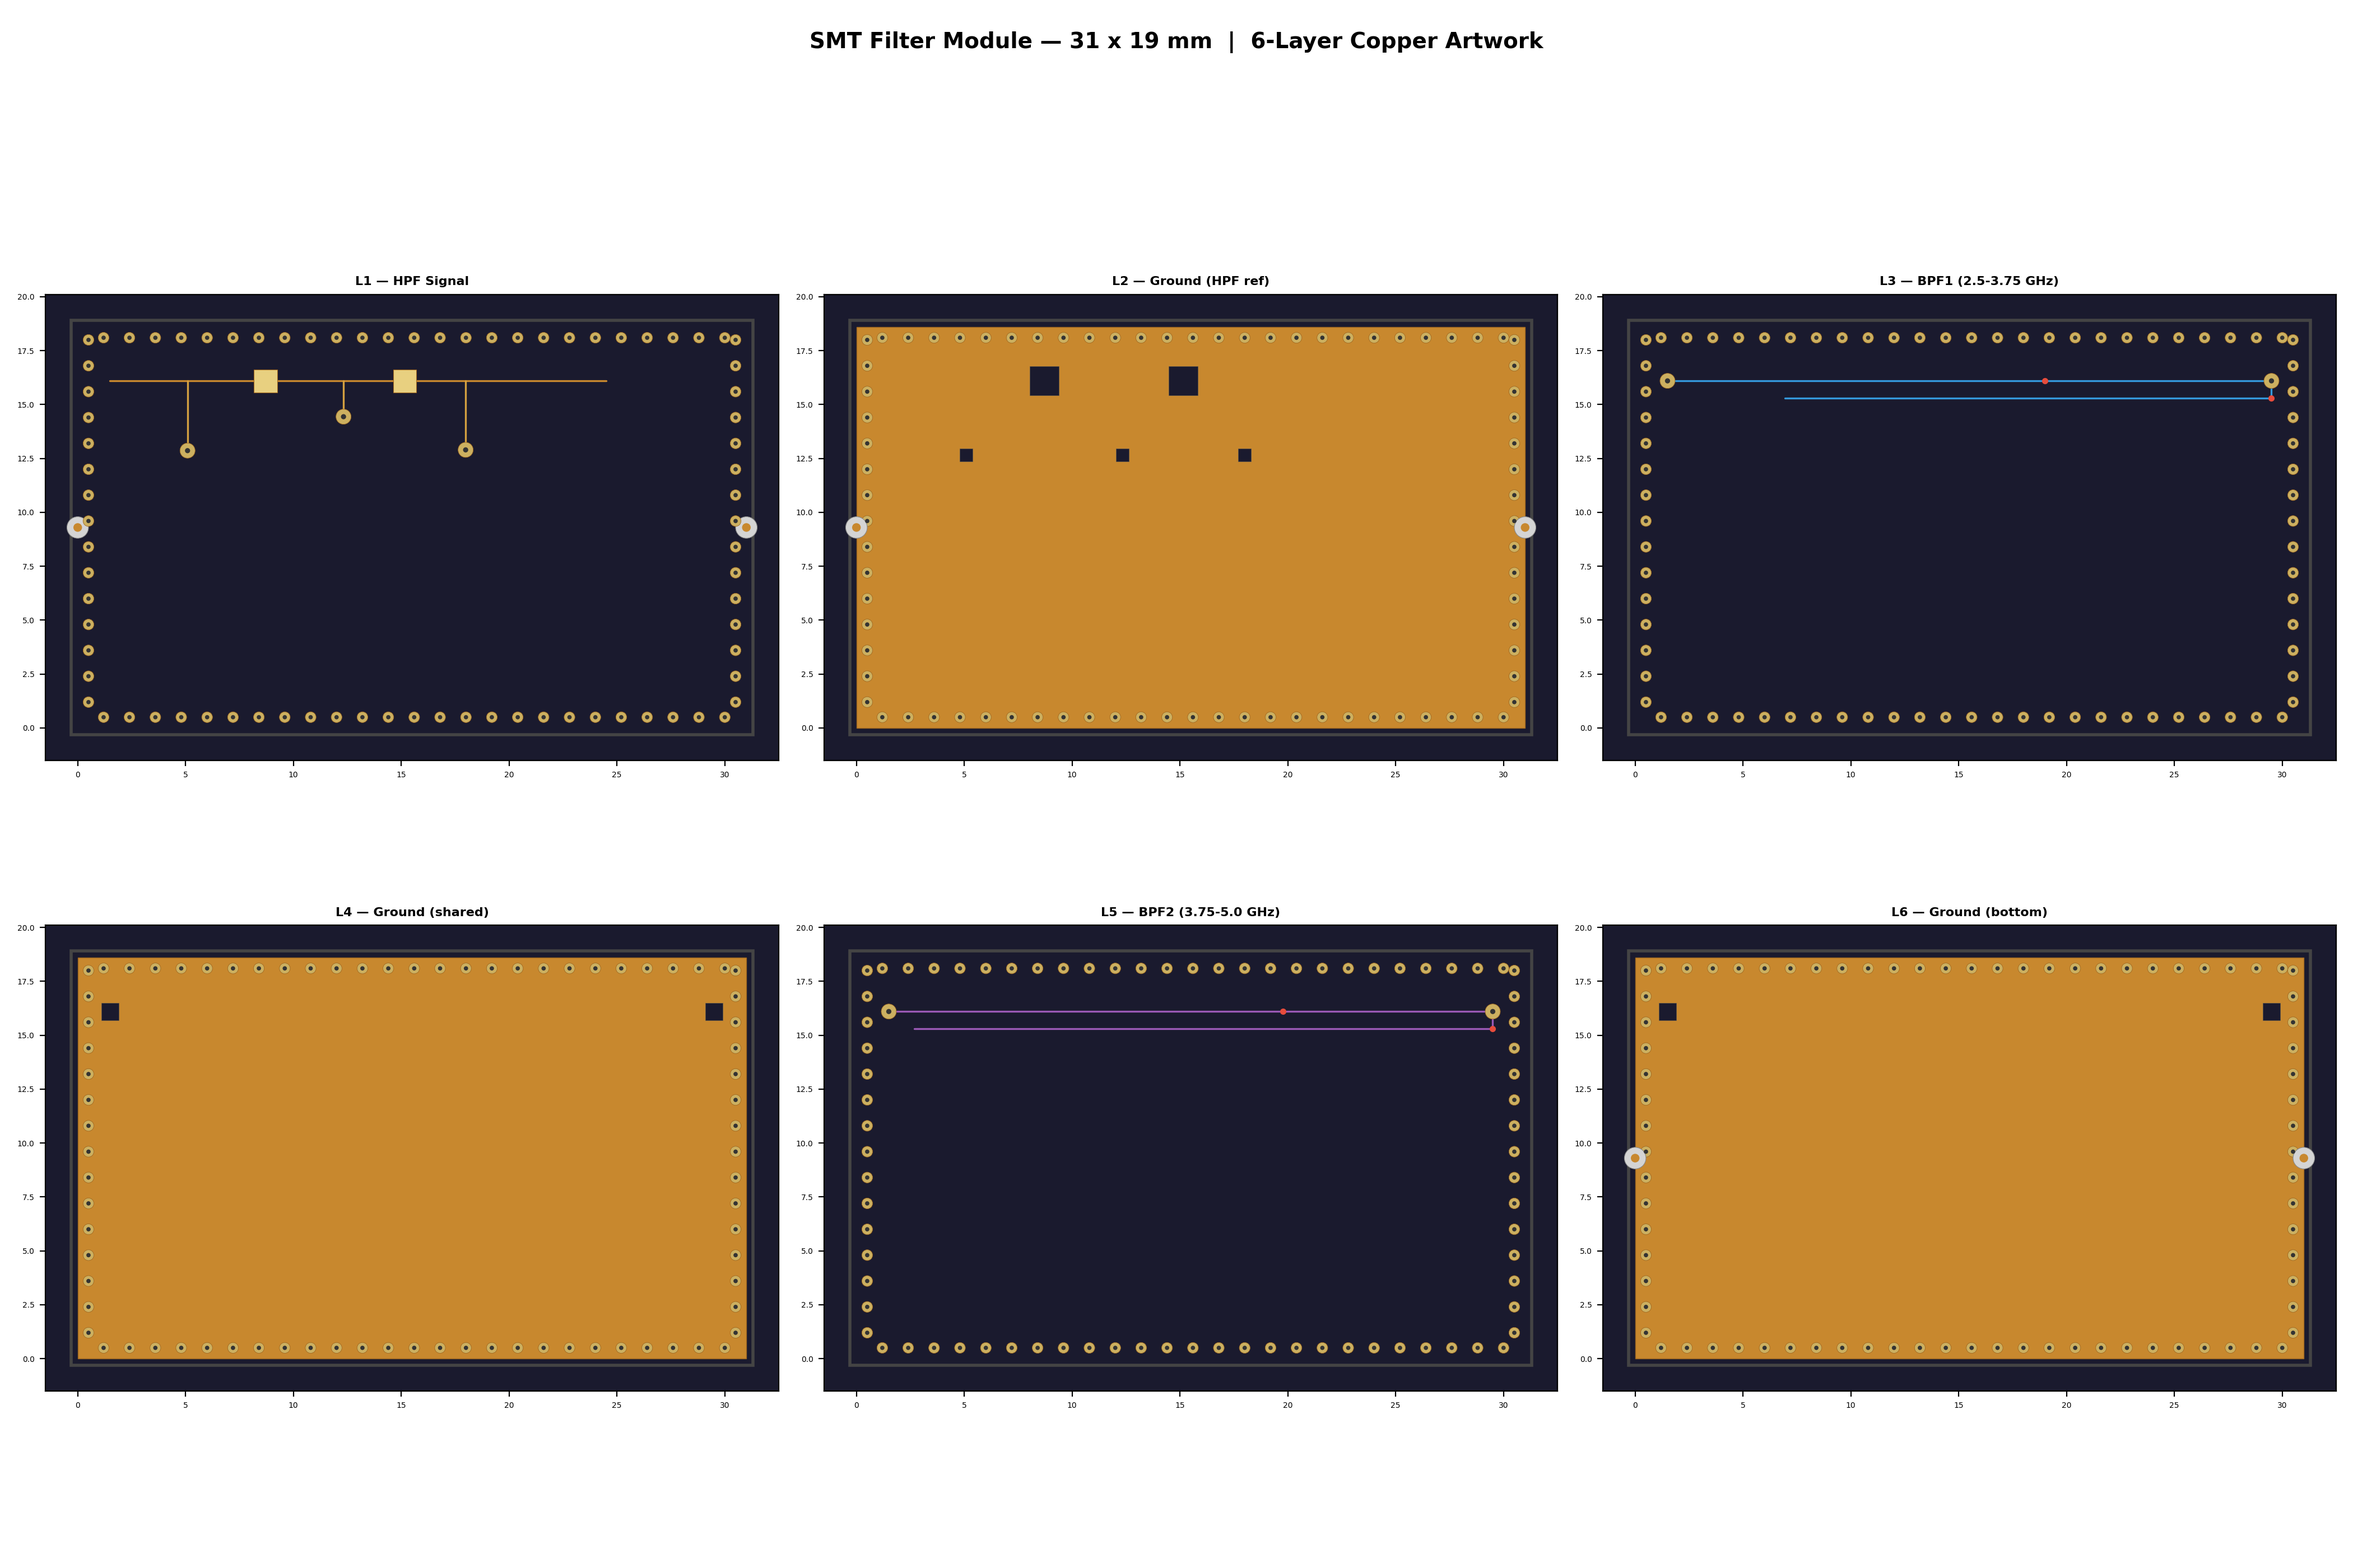
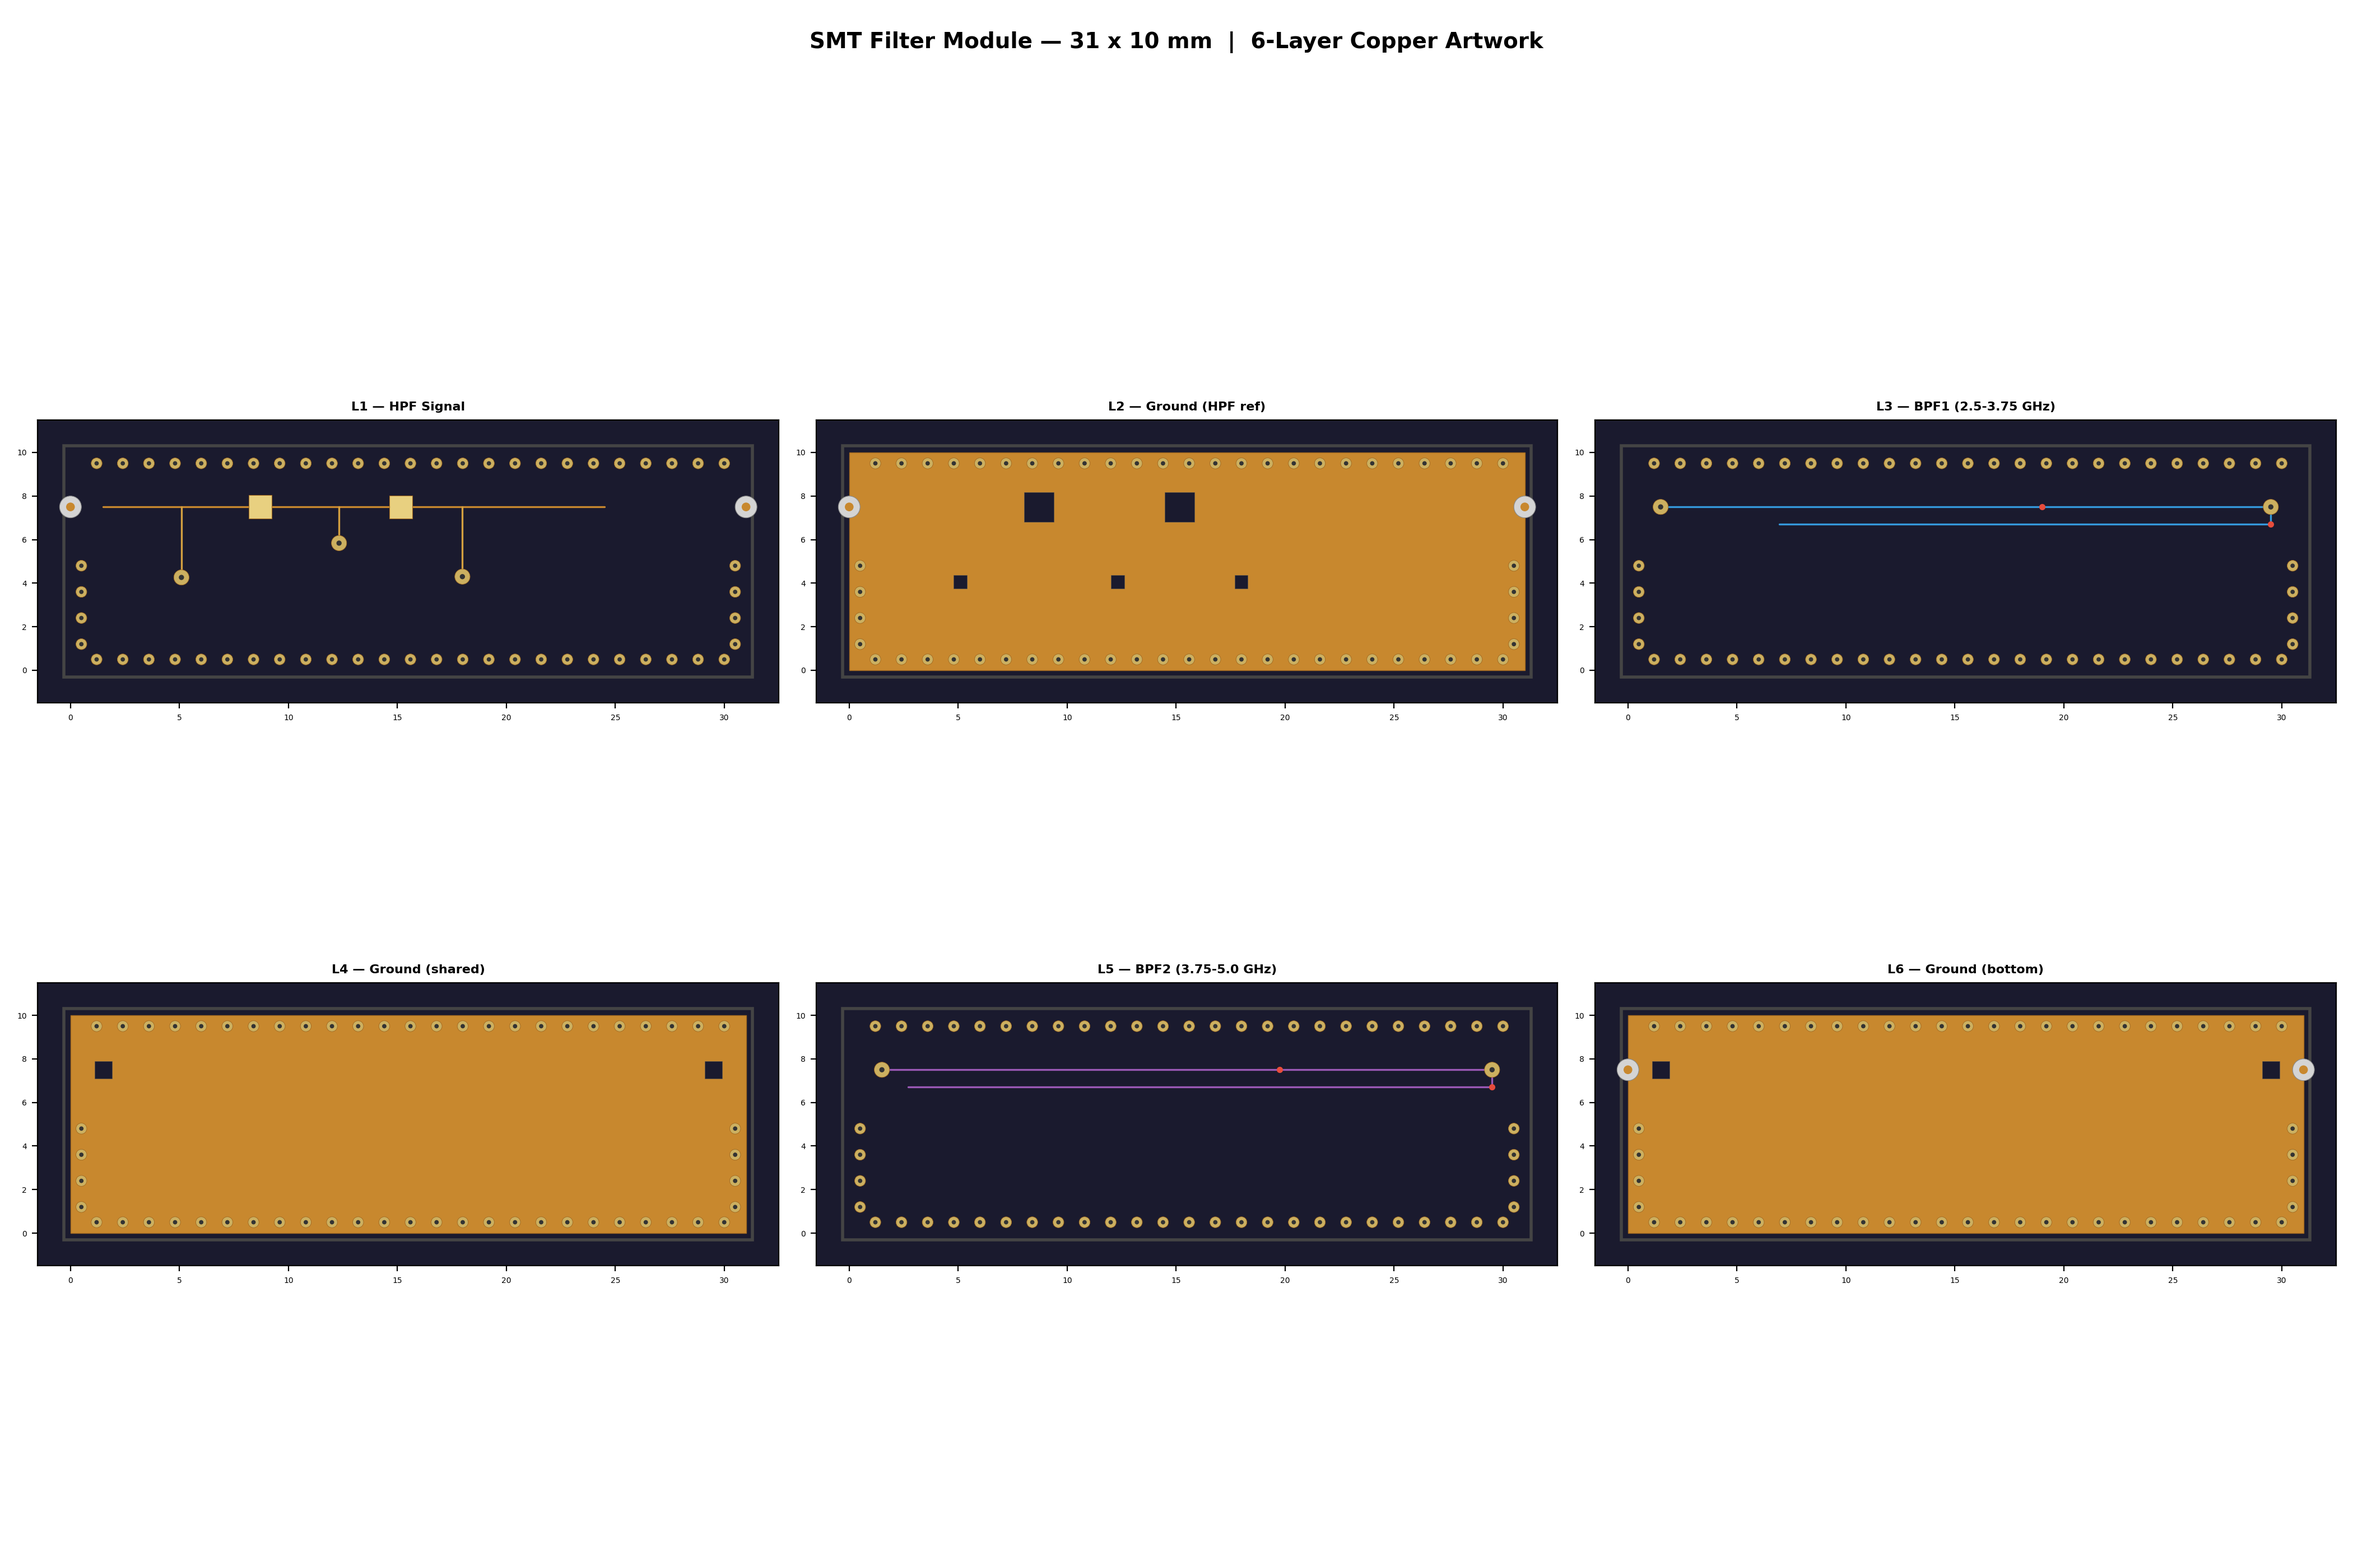
Fix board height and via fence pad clearance
Board height: 10mm (was 19mm) — removed the min(h, 0.6*w) aspect
ratio floor that was doubling the height. Now computed tightly from
actual meander folds + stub clearance + edge margins.

Via fence: added exclusion zones (2mm radius) around castellated
signal pads to prevent shorting RF signal to ground. Via fence now
skips positions near pad_in and pad_out.

Castellated pads: moved from y=BH/2 (board center) to y=y_feed
(actual feedline y-coordinate) so pads connect to the traces.

Result: 31 x 10 mm module (310 mm², was 577 mm²)

Changed region(s): [[0.0, 0.1864, 0.9981, 0.4971], [0.0, 0.5593, 0.9981, 0.9011]]

diff --git a/shape_filter_bank.py b/shape_filter_bank.py
@@ -255,13 +255,21 @@ def _draw_gnd_pour(ax,bw,bh,voids=None):
         for (x,y,w,h) in voids:
             ax.add_patch(Rectangle((x,y),w,h,fc=SUBSTRATE,ec="#555",lw=0.2,zorder=2))
 
-def _draw_via_fence(ax,bw,bh):
+def _draw_via_fence(ax,bw,bh,exclusions=None):
+    """Draw perimeter ground via fence, skipping near signal pads."""
+    if exclusions is None:
+        exclusions = []
+    def _ok(x,y):
+        for ex,ey,er in exclusions:
+            if abs(x-ex)<er and abs(y-ey)<er:
+                return False
+        return True
     for x in np.arange(VIA_FENCE_PITCH, bw-0.5, VIA_FENCE_PITCH):
-        _draw_via(ax,x,0.5,0.25,0.1)
-        _draw_via(ax,x,bh-0.5,0.25,0.1)
+        if _ok(x,0.5): _draw_via(ax,x,0.5,0.25,0.1)
+        if _ok(x,bh-0.5): _draw_via(ax,x,bh-0.5,0.25,0.1)
     for y in np.arange(VIA_FENCE_PITCH, bh-0.5, VIA_FENCE_PITCH):
-        _draw_via(ax,0.5,y,0.25,0.1)
-        _draw_via(ax,bw-0.5,y,0.25,0.1)
+        if _ok(0.5,y): _draw_via(ax,0.5,y,0.25,0.1)
+        if _ok(bw-0.5,y): _draw_via(ax,bw-0.5,y,0.25,0.1)
 
 def _layer_ax(fig,pos,title,bw,bh):
     ax=fig.add_subplot(*pos)
@@ -314,19 +322,24 @@ def main():
     bpf2_total=float(np.sum(rl2))
 
     longest=max(hpf_total, bpf1_total, bpf2_total)
-    usable_run = longest  # total trace needs to fit with folds
 
     n_folds_needed = 1
-    trial_w = usable_run + 2*EDGE_PAD
+    trial_w = longest + 2*EDGE_PAD
     while trial_w > 40:
         n_folds_needed += 1
-        trial_w = usable_run / n_folds_needed + 2*EDGE_PAD
+        trial_w = longest / n_folds_needed + 2*EDGE_PAD
 
     board_w = np.ceil(trial_w)
-    board_h_trace = EDGE_PAD*2 + n_folds_needed * FOLD_GAP + 4
-    board_h = max(np.ceil(board_h_trace), board_w * 0.6)
-    board_h = max(board_h, 10)
-    board_w = max(board_w, board_h * 0.6)
+
+    max_stub_mm = float(np.max(sl)) * 1e3
+    board_h = np.ceil(
+        EDGE_PAD                          # top margin
+        + 1.0                             # trace to top clearance
+        + max_stub_mm + 1.0               # stub length + via pad
+        + n_folds_needed * FOLD_GAP       # meander folds
+        + EDGE_PAD                        # bottom margin
+    )
+    board_h = max(board_h, 6)
 
     BW = float(board_w)
     BH = float(board_h)
@@ -344,10 +357,10 @@ def main():
         hpf_segs.append(sl[k]*1e3)
     if len(ll)>3: hpf_segs.append(ll[3]*1e3)
 
-    y_start = BH - EDGE_PAD - 1
-    hpf_pts  = _meander_pts(EDGE_PAD, y_start, hpf_segs, BW)
-    bpf1_pts = _meander_pts(EDGE_PAD, y_start, list(rl1), BW)
-    bpf2_pts = _meander_pts(EDGE_PAD, y_start, list(rl2), BW)
+    y_feed = BH - EDGE_PAD - 1.0
+    hpf_pts  = _meander_pts(EDGE_PAD, y_feed, hpf_segs, BW)
+    bpf1_pts = _meander_pts(EDGE_PAD, y_feed, list(rl1), BW)
+    bpf2_pts = _meander_pts(EDGE_PAD, y_feed, list(rl2), BW)
 
     stub_w_mm=[float(_ms_width(jnp.array(float(sz[k]))))*1e3 for k in range(3)]
     mim_pads=[np.sqrt(float(cp[k])*H_CORE/(EPS0*ER_CORE))*1e3 for k in range(2)]
@@ -363,19 +376,25 @@ def main():
     fig.suptitle(f"SMT Filter Module — {BW:.0f} x {BH:.0f} mm  |  6-Layer Copper Artwork",
                  fontsize=14, fontweight="bold")
 
+    # Castellated signal pad positions — on left/right edges at feed y
+    pad_in  = (0, y_feed)
+    pad_out = (BW, y_feed)
+    # Exclusion zones: keep via fence away from signal pads (2mm radius)
+    excl = [(pad_in[0], pad_in[1], 2.0), (pad_out[0], pad_out[1], 2.0)]
+
     # L1 — HPF signal
     ax=_layer_ax(fig,(2,3,1),f"L1 — HPF Signal",BW,BH)
     _draw_trace(ax,hpf_pts,W50_MM)
     for k in range(3):
-        sx=stub_xs[k]; sy_end=y_start-sl[k]*1e3
-        _draw_trace(ax,[(sx,y_start),(sx,sy_end)],stub_w_mm[k],color="#d4a040")
+        sx=stub_xs[k]; sy_end=y_feed-sl[k]*1e3
+        _draw_trace(ax,[(sx,y_feed),(sx,sy_end)],stub_w_mm[k],color="#d4a040")
         _draw_via(ax,sx,sy_end-0.3)
     for k in range(2):
         cx=stub_xs[k]+(stub_xs[min(k+1,2)]-stub_xs[k])*0.5
         cx=min(max(cx,2),BW-2); ps=mim_pads[k]
-        ax.add_patch(Rectangle((cx-ps/2,y_start-ps/2),ps,ps,fc="#e8d080",ec=CU_DARK,lw=0.4,zorder=4))
-    _draw_castellated(ax,0,BH/2); _draw_castellated(ax,BW,BH/2)
-    _draw_via_fence(ax,BW,BH)
+        ax.add_patch(Rectangle((cx-ps/2,y_feed-ps/2),ps,ps,fc="#e8d080",ec=CU_DARK,lw=0.4,zorder=4))
+    _draw_castellated(ax,*pad_in); _draw_castellated(ax,*pad_out)
+    _draw_via_fence(ax,BW,BH,excl)
 
     # L2 — Ground
     ax=_layer_ax(fig,(2,3,2),f"L2 — Ground (HPF ref)",BW,BH)
@@ -383,11 +402,11 @@ def main():
     for k in range(2):
         cx=stub_xs[k]+(stub_xs[min(k+1,2)]-stub_xs[k])*0.5
         cx=min(max(cx,2),BW-2); ps=mim_pads[k]+0.3
-        voids.append((cx-ps/2,y_start-ps/2,ps,ps))
+        voids.append((cx-ps/2,y_feed-ps/2,ps,ps))
     for sx in stub_xs:
-        voids.append((sx-0.3,y_start-sl.max()*1e3-0.8,0.6,0.6))
-    _draw_gnd_pour(ax,BW,BH,voids); _draw_via_fence(ax,BW,BH)
-    _draw_castellated(ax,0,BH/2); _draw_castellated(ax,BW,BH/2)
+        voids.append((sx-0.3,y_feed-sl.max()*1e3-0.8,0.6,0.6))
+    _draw_gnd_pour(ax,BW,BH,voids); _draw_via_fence(ax,BW,BH,excl)
+    _draw_castellated(ax,*pad_in); _draw_castellated(ax,*pad_out)
 
     # L3 — BPF1 signal
     ax=_layer_ax(fig,(2,3,3),f"L3 — BPF1 (2.5-3.75 GHz)",BW,BH)
@@ -395,13 +414,13 @@ def main():
     for k in range(N_BPF):
         pt=bpf1_pts[min(k+1,len(bpf1_pts)-1)]
         ax.plot(pt[0],pt[1],"o",color="#e74c3c",ms=3,zorder=5)
-    _draw_via(ax,EDGE_PAD,y_start); _draw_via(ax,BW-EDGE_PAD,y_start)
-    _draw_via_fence(ax,BW,BH)
+    _draw_via(ax,EDGE_PAD,y_feed); _draw_via(ax,BW-EDGE_PAD,y_feed)
+    _draw_via_fence(ax,BW,BH,excl)
 
     # L4 — Ground
     ax=_layer_ax(fig,(2,3,4),f"L4 — Ground (shared)",BW,BH)
-    vc=[(EDGE_PAD-0.4,y_start-0.4,0.8,0.8),(BW-EDGE_PAD-0.4,y_start-0.4,0.8,0.8)]
-    _draw_gnd_pour(ax,BW,BH,vc); _draw_via_fence(ax,BW,BH)
+    vc=[(EDGE_PAD-0.4,y_feed-0.4,0.8,0.8),(BW-EDGE_PAD-0.4,y_feed-0.4,0.8,0.8)]
+    _draw_gnd_pour(ax,BW,BH,vc); _draw_via_fence(ax,BW,BH,excl)
 
     # L5 — BPF2 signal
     ax=_layer_ax(fig,(2,3,5),f"L5 — BPF2 (3.75-5.0 GHz)",BW,BH)
@@ -409,13 +428,13 @@ def main():
     for k in range(N_BPF):
         pt=bpf2_pts[min(k+1,len(bpf2_pts)-1)]
         ax.plot(pt[0],pt[1],"o",color="#e74c3c",ms=3,zorder=5)
-    _draw_via(ax,EDGE_PAD,y_start); _draw_via(ax,BW-EDGE_PAD,y_start)
-    _draw_via_fence(ax,BW,BH)
+    _draw_via(ax,EDGE_PAD,y_feed); _draw_via(ax,BW-EDGE_PAD,y_feed)
+    _draw_via_fence(ax,BW,BH,excl)
 
     # L6 — Ground
     ax=_layer_ax(fig,(2,3,6),f"L6 — Ground (bottom)",BW,BH)
-    _draw_gnd_pour(ax,BW,BH,vc); _draw_via_fence(ax,BW,BH)
-    _draw_castellated(ax,0,BH/2); _draw_castellated(ax,BW,BH/2)
+    _draw_gnd_pour(ax,BW,BH,vc); _draw_via_fence(ax,BW,BH,excl)
+    _draw_castellated(ax,*pad_in); _draw_castellated(ax,*pad_out)
 
     fig.tight_layout(rect=[0,0,1,0.95])
     fig.savefig("shape_copper_layers.png",dpi=200); plt.close(fig)
@@ -442,34 +461,34 @@ def main():
         if kind=="hpf":
             _draw_trace(ax_l,hpf_pts,W50_MM)
             for k in range(3):
-                sx=stub_xs[k]; se=y_start-sl[k]*1e3
-                _draw_trace(ax_l,[(sx,y_start),(sx,se)],stub_w_mm[k],color="#d4a040")
+                sx=stub_xs[k]; se=y_feed-sl[k]*1e3
+                _draw_trace(ax_l,[(sx,y_feed),(sx,se)],stub_w_mm[k],color="#d4a040")
                 _draw_via(ax_l,sx,se-0.3)
             for k in range(2):
                 cx=stub_xs[k]+(stub_xs[min(k+1,2)]-stub_xs[k])*0.5
                 cx=min(max(cx,2),BW-2); ps=mim_pads[k]
-                ax_l.add_patch(Rectangle((cx-ps/2,y_start-ps/2),ps,ps,fc="#e8d080",ec=CU_DARK,lw=0.4,zorder=4))
-            _draw_castellated(ax_l,0,BH/2); _draw_castellated(ax_l,BW,BH/2)
-            _draw_via_fence(ax_l,BW,BH)
+                ax_l.add_patch(Rectangle((cx-ps/2,y_feed-ps/2),ps,ps,fc="#e8d080",ec=CU_DARK,lw=0.4,zorder=4))
+            _draw_castellated(ax_l,*pad_in); _draw_castellated(ax_l,*pad_out)
+            _draw_via_fence(ax_l,BW,BH,excl)
         elif kind=="gnd_hpf":
-            _draw_gnd_pour(ax_l,BW,BH,voids); _draw_via_fence(ax_l,BW,BH)
-            _draw_castellated(ax_l,0,BH/2); _draw_castellated(ax_l,BW,BH/2)
+            _draw_gnd_pour(ax_l,BW,BH,voids); _draw_via_fence(ax_l,BW,BH,excl)
+            _draw_castellated(ax_l,*pad_in); _draw_castellated(ax_l,*pad_out)
         elif kind=="bpf1":
             _draw_trace(ax_l,bpf1_pts,SL_W50_MM,color="#3498db")
             for k in range(N_BPF):
                 pt=bpf1_pts[min(k+1,len(bpf1_pts)-1)]
                 ax_l.plot(pt[0],pt[1],"o",color="#e74c3c",ms=4,zorder=5)
-            _draw_via(ax_l,EDGE_PAD,y_start); _draw_via(ax_l,BW-EDGE_PAD,y_start)
-            _draw_via_fence(ax_l,BW,BH)
+            _draw_via(ax_l,EDGE_PAD,y_feed); _draw_via(ax_l,BW-EDGE_PAD,y_feed)
+            _draw_via_fence(ax_l,BW,BH,excl)
         elif kind=="bpf2":
             _draw_trace(ax_l,bpf2_pts,SL_W50_MM,color="#9b59b6")
             for k in range(N_BPF):
                 pt=bpf2_pts[min(k+1,len(bpf2_pts)-1)]
                 ax_l.plot(pt[0],pt[1],"o",color="#e74c3c",ms=4,zorder=5)
-            _draw_via(ax_l,EDGE_PAD,y_start); _draw_via(ax_l,BW-EDGE_PAD,y_start)
-            _draw_via_fence(ax_l,BW,BH)
+            _draw_via(ax_l,EDGE_PAD,y_feed); _draw_via(ax_l,BW-EDGE_PAD,y_feed)
+            _draw_via_fence(ax_l,BW,BH,excl)
         else:
-            _draw_gnd_pour(ax_l,BW,BH,vc); _draw_via_fence(ax_l,BW,BH)
+            _draw_gnd_pour(ax_l,BW,BH,vc); _draw_via_fence(ax_l,BW,BH,excl)
 
         fig_l.tight_layout()
         fig_l.savefig(fname,dpi=200); plt.close(fig_l)
